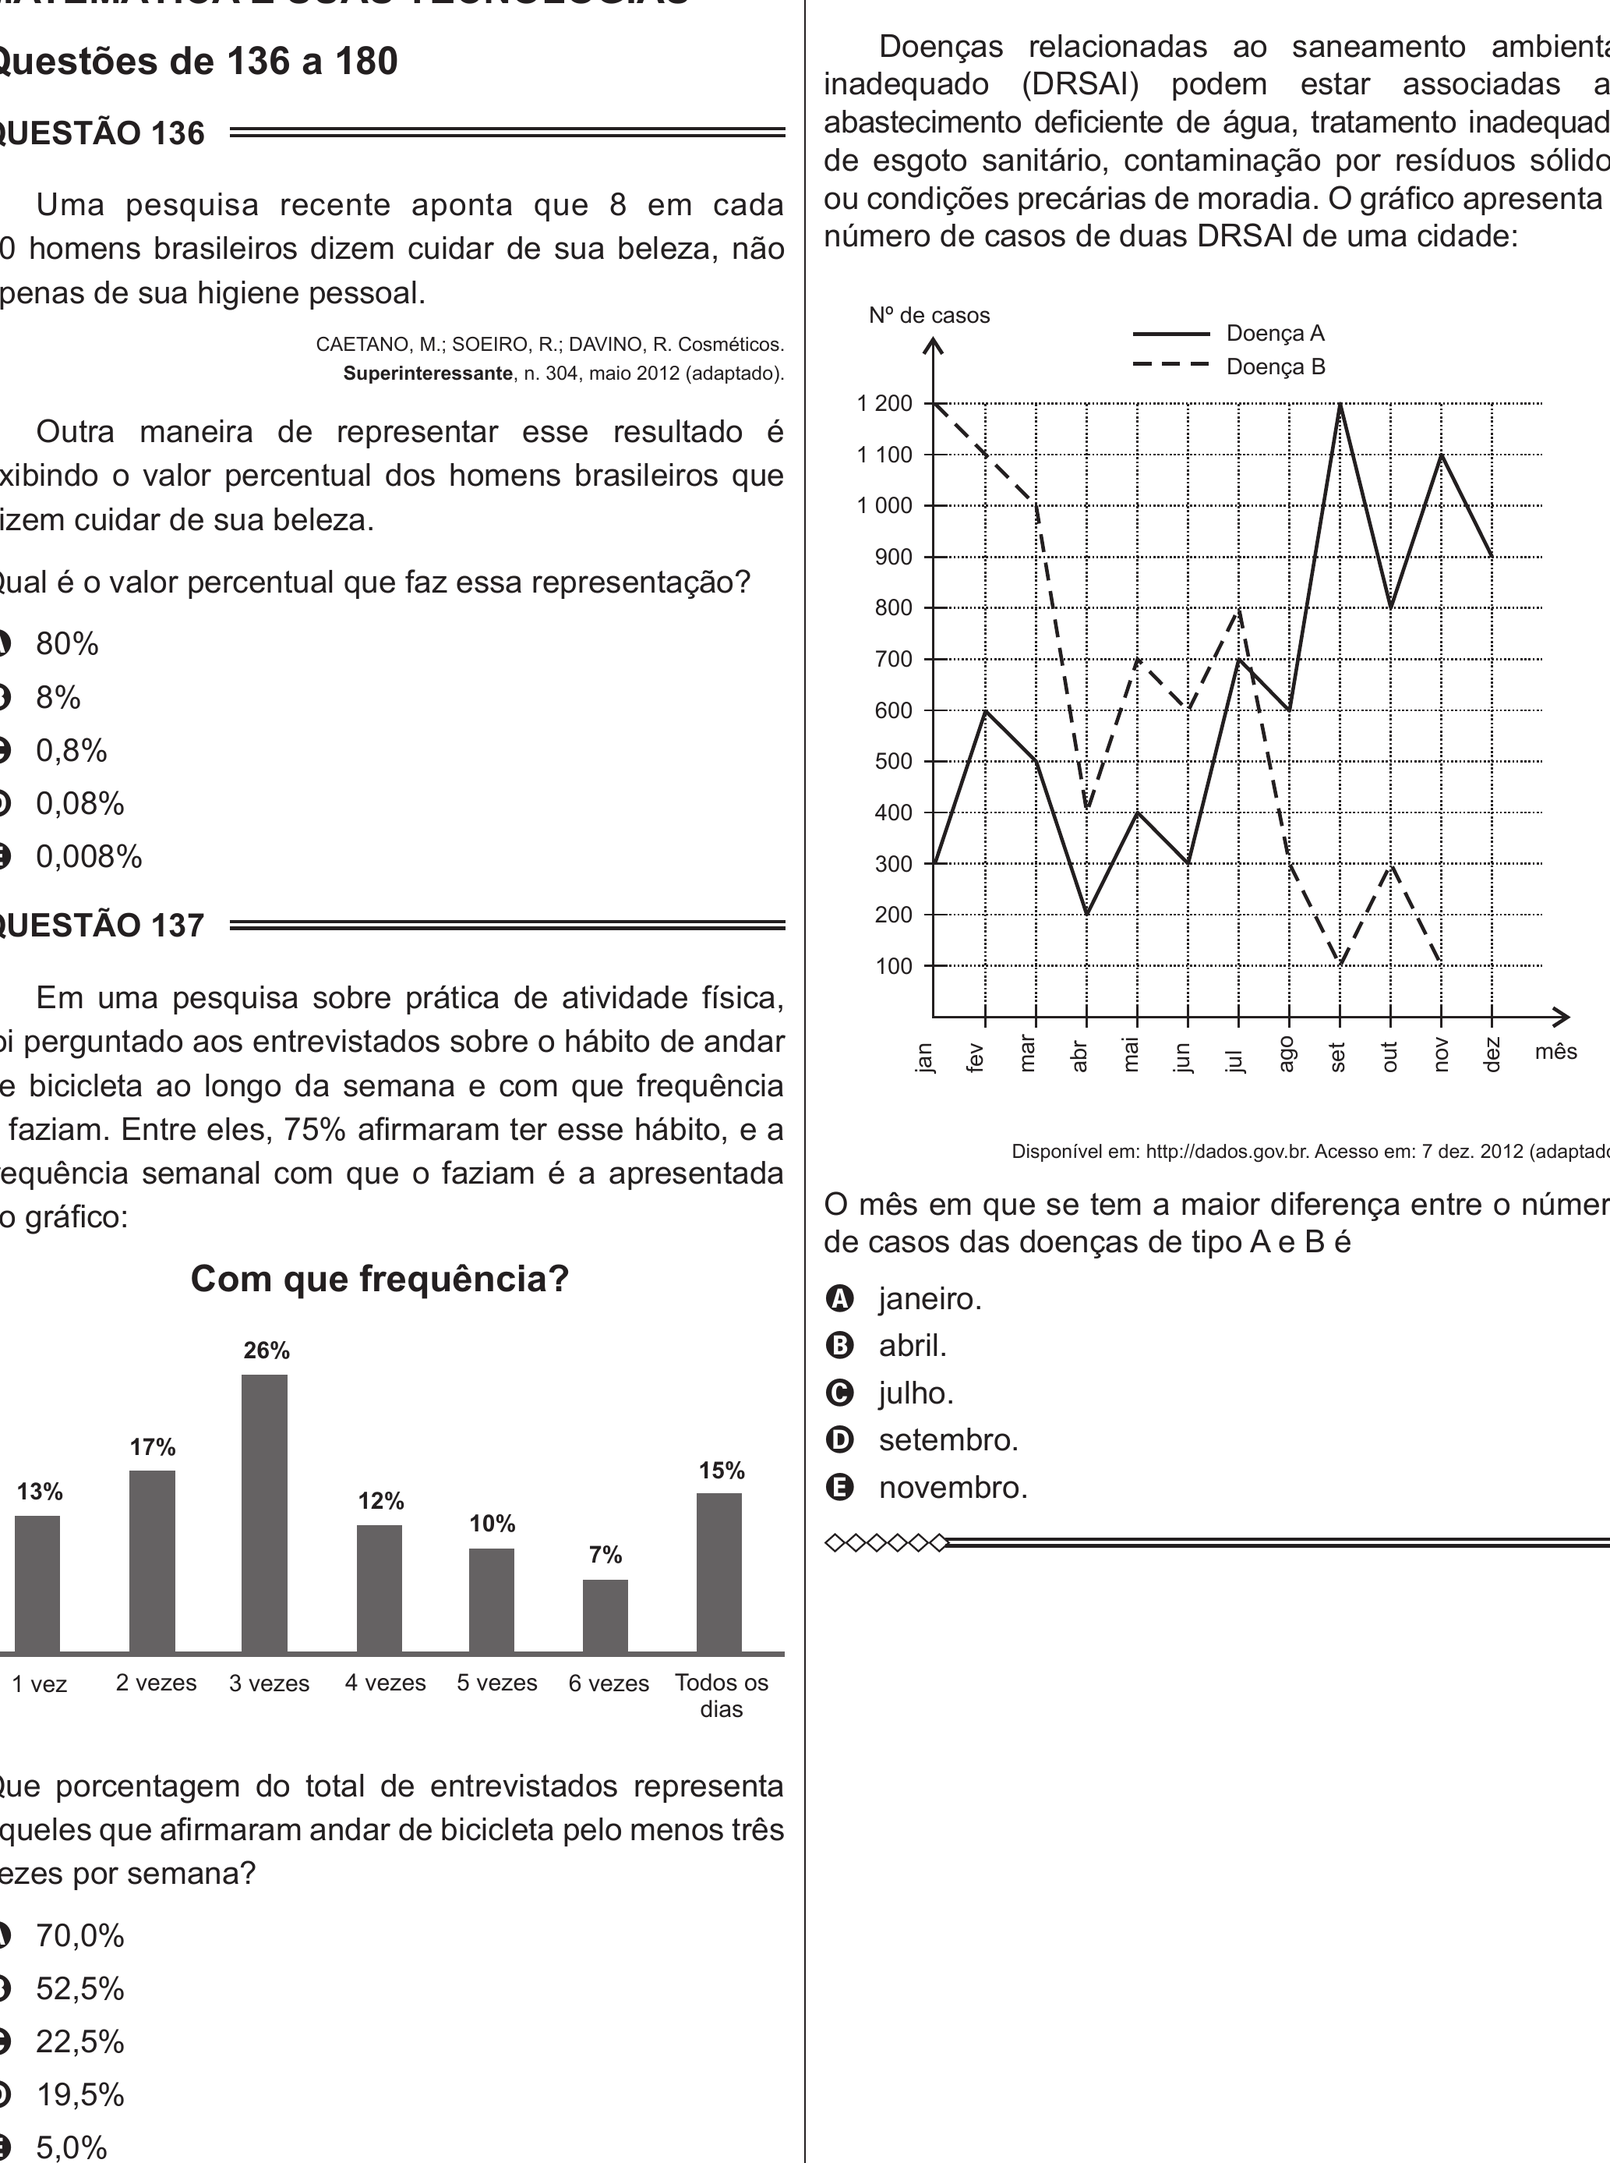
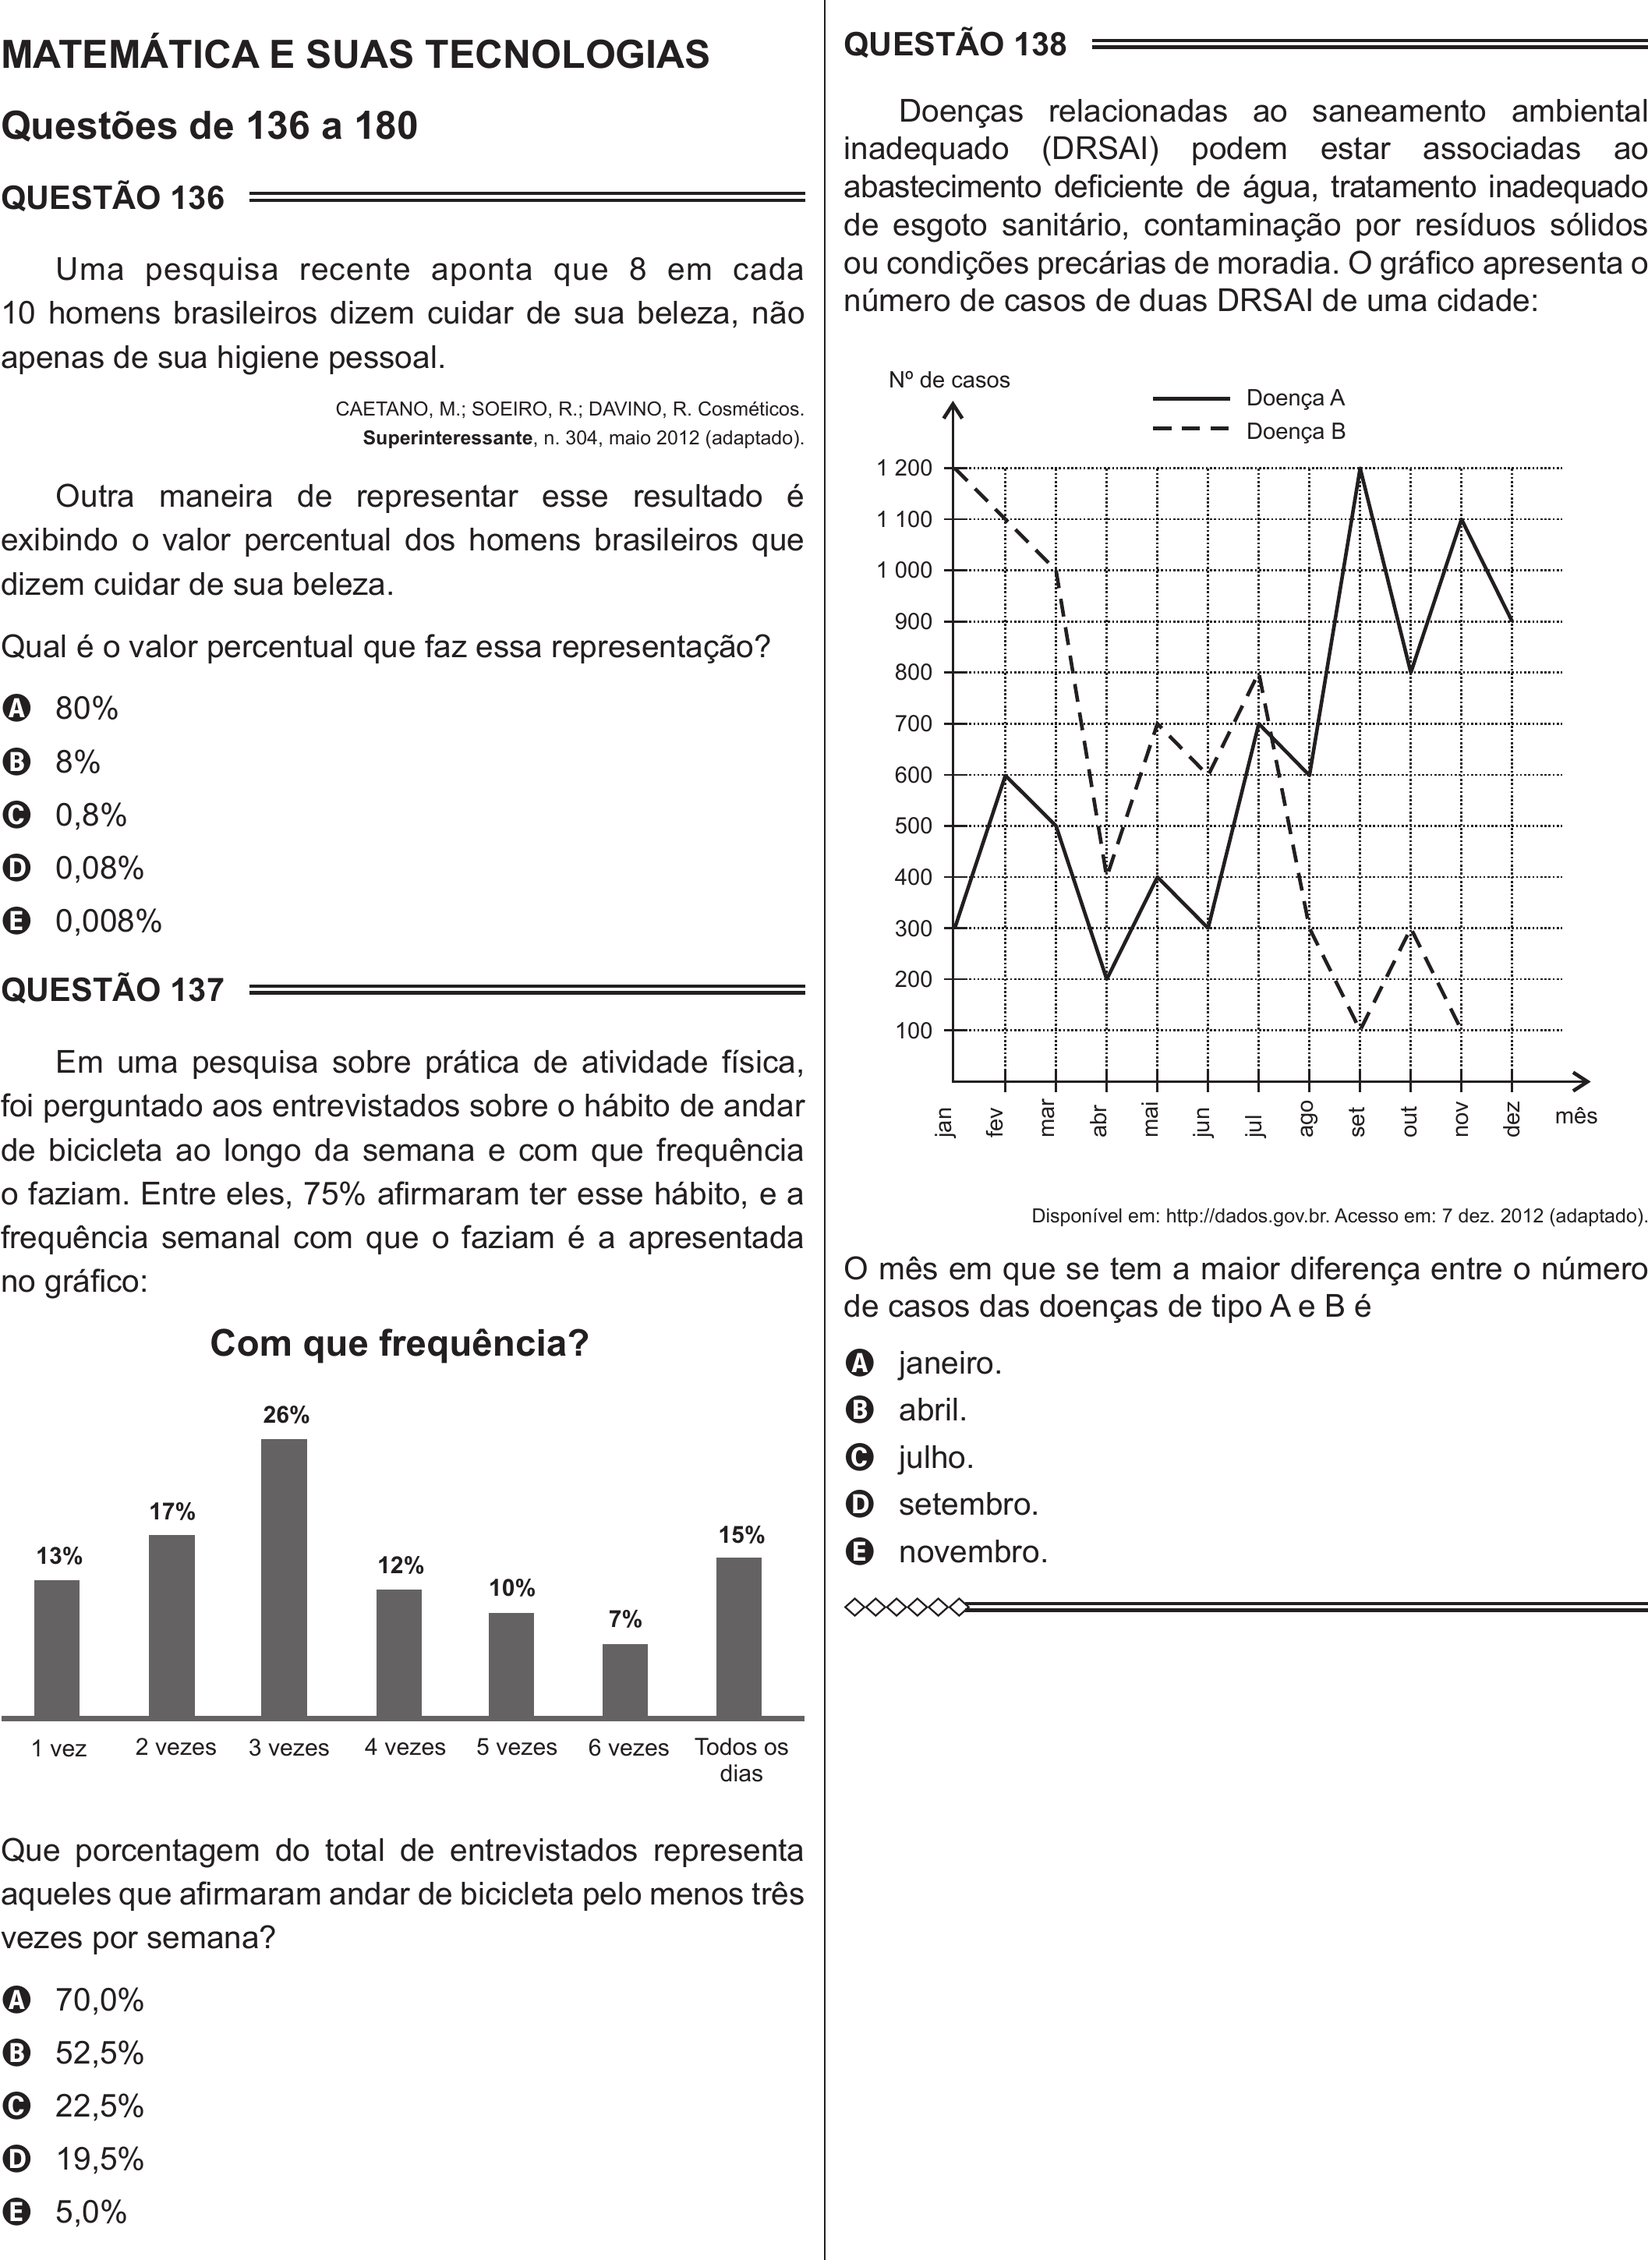
cortei as bordas

diff --git a/2Passo-RemoverBordasPaginasInteiras/remover-bordas.py b/2Passo-RemoverBordasPaginasInteiras/remover-bordas.py
@@ -23,7 +23,7 @@ for nome_arquivo in os.listdir(pasta_imagens):
 
         largura, altura = imagem.size
 
-        caixa_corte = (276, 390, largura - 276, altura - 280)
+        caixa_corte = (251, 307, largura - 253, altura - 238)
         imagem_cortada = imagem.crop(caixa_corte)
 
         caminho_saida = os.path.join(pasta_saida, nome_arquivo)
